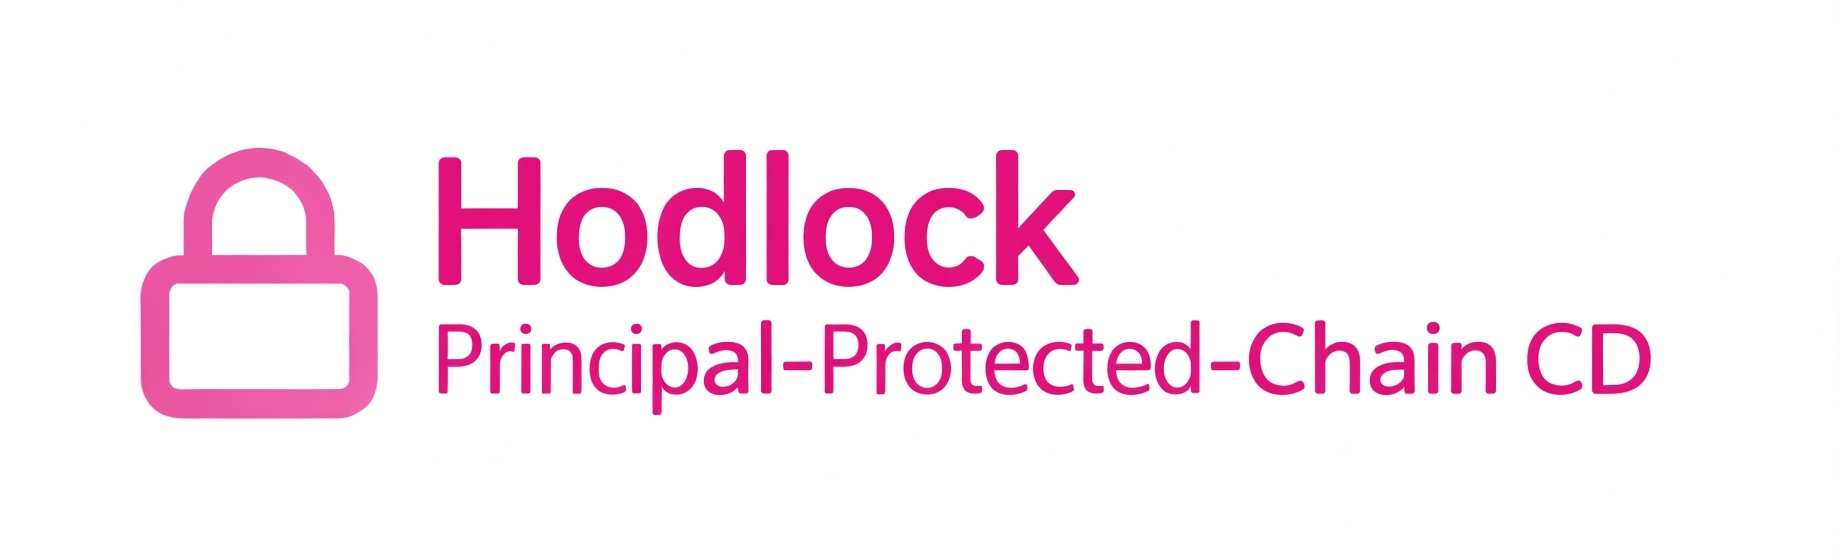
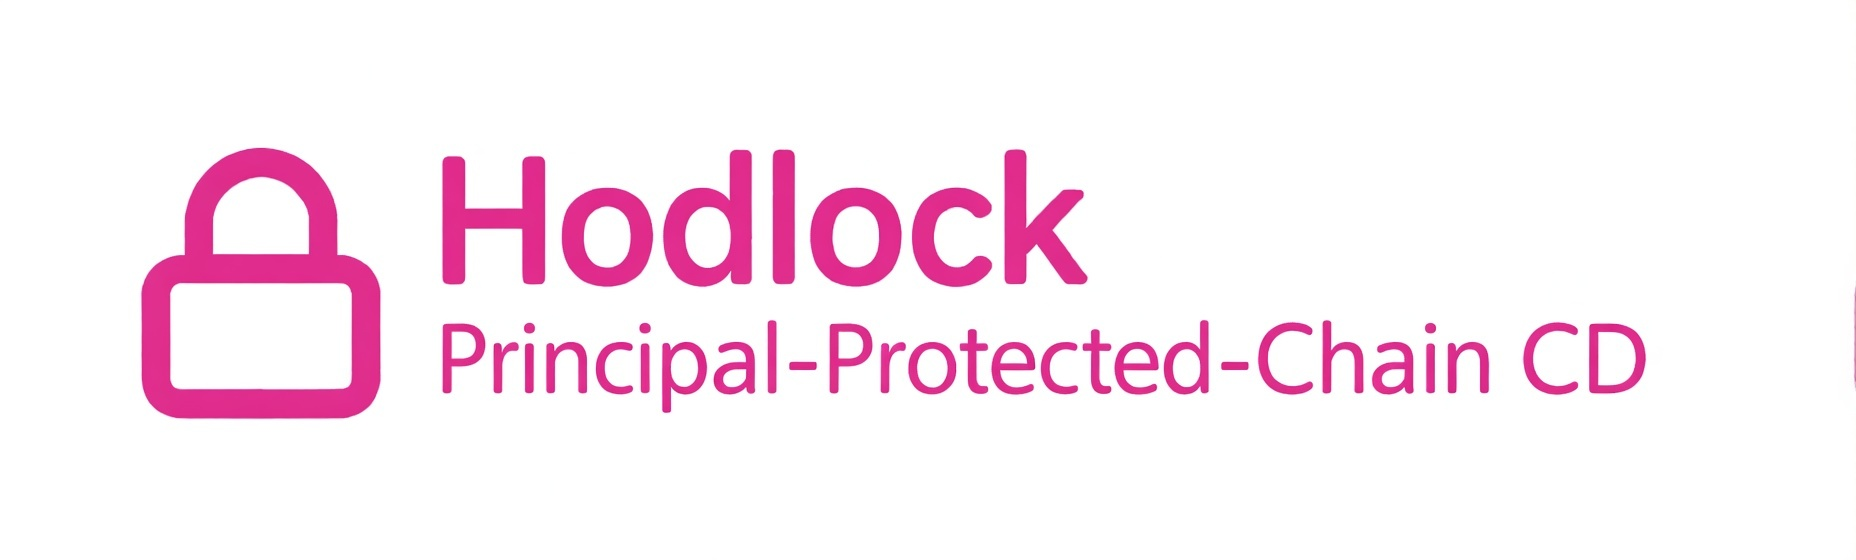
调整了图片

Changed region(s): [[0.062, 0.2429, 0.8984, 0.7589], [0.9913, 0.5161, 1.0, 0.6679]]

diff --git a/frontend/src/widgets/header/Header.tsx b/frontend/src/widgets/header/Header.tsx
@@ -28,7 +28,7 @@ export function Header() {
               <div className="p-1.5 rounded-xl bg-transparent group-hover:bg-pink-50 transition-colors">
                 <Lock className="h-7 w-7 text-pink-500" strokeWidth={2.5} />
               </div>
-              <span className="text-xl font-bold bg-gradient-to-r from-pink-500 to-rose-500 bg-clip-text text-transparent">
+              <span className="text-xl font-bold text-pink-500">
                 Hodlock
               </span>
             </Link>
